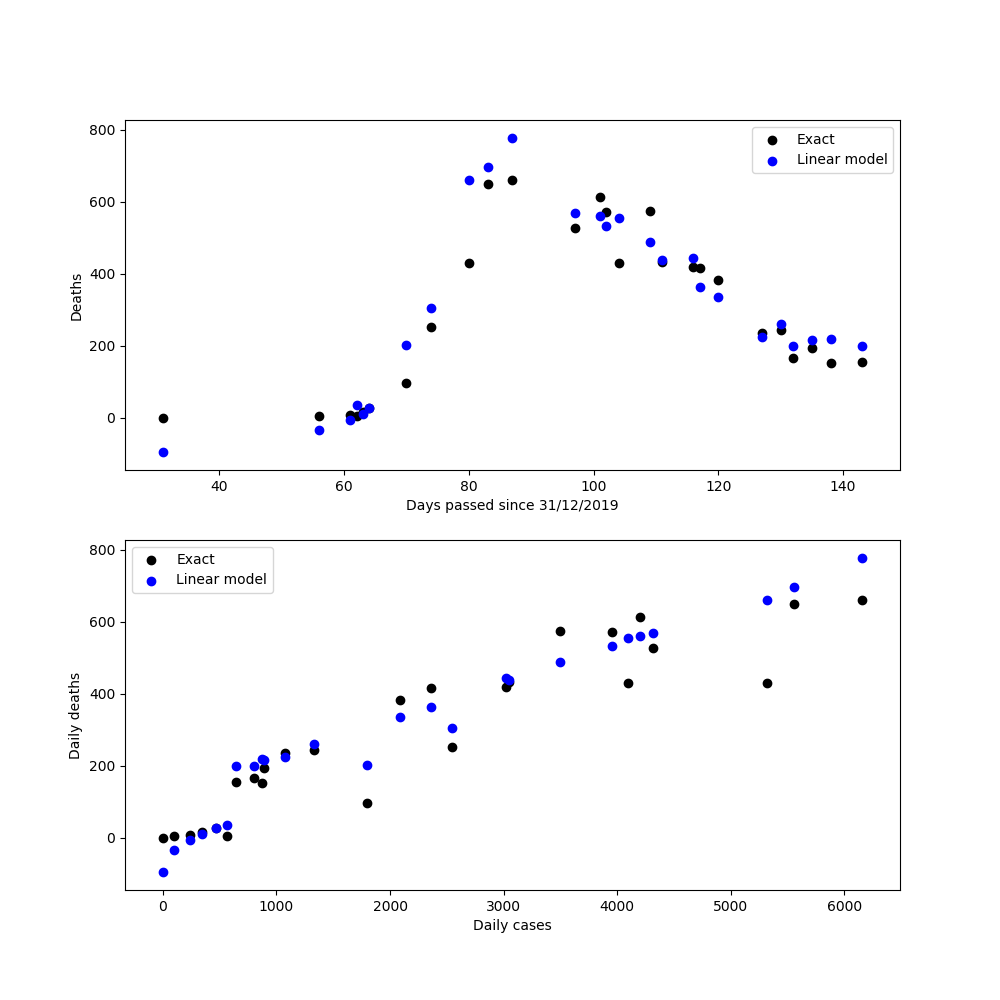
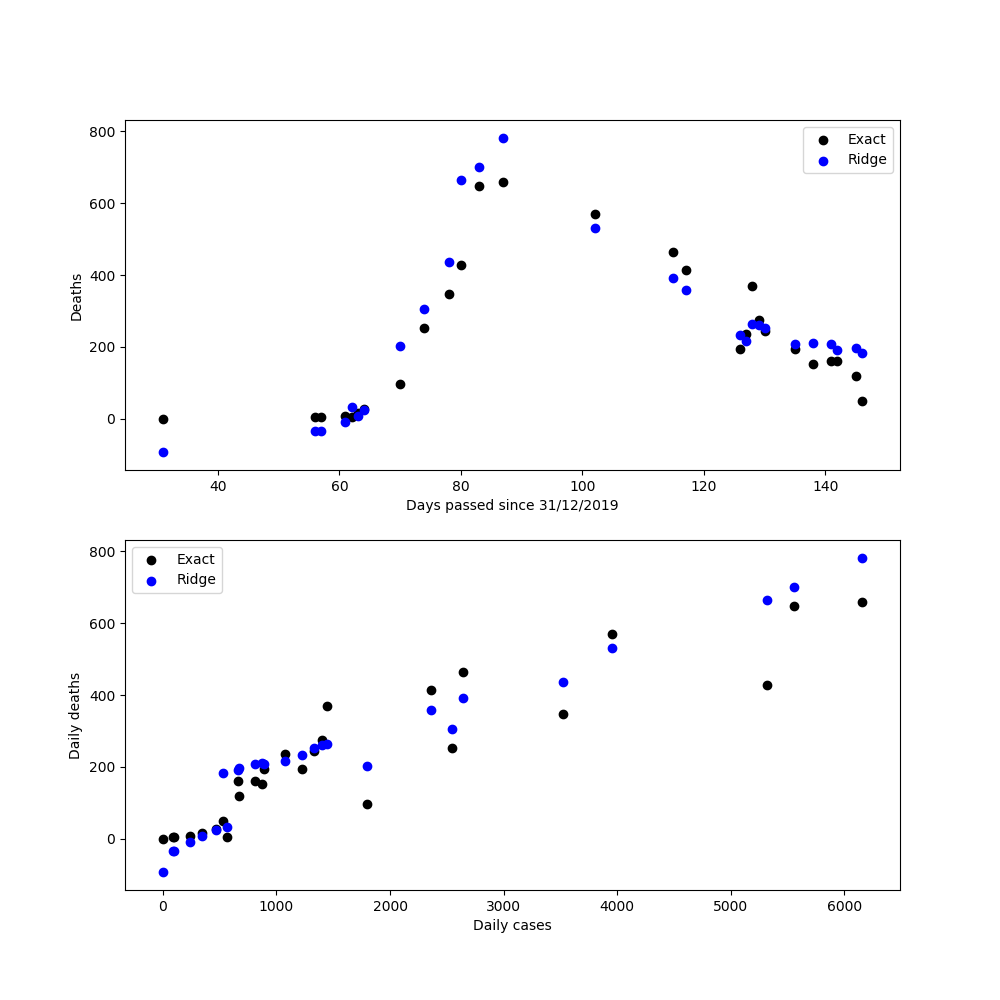
added Ridge regression to linear + Closs validation

diff --git a/models/linear.py b/models/linear.py
@@ -5,6 +5,7 @@ from sklearn import linear_model
 from sklearn.model_selection import train_test_split, cross_validate
 from sklearn.metrics import mean_squared_error, r2_score
 from sklearn.covariance import EllipticEnvelope
+from sklearn.neighbors import LocalOutlierFactor
 
 ######
 #model=['linear regression', 'Rigde regression']
@@ -18,6 +19,10 @@ def linear(data):
     y = np.array(data['deaths'])
 
 #Removing outliers
+
+#    clf = LocalOutlierFactor(n_neighbors=2, contamination = 0.1)
+#    x = x[clf.fit_predict(y.reshape(-1,1)) == 1]
+#    y = y[clf.fit_predict(y.reshape(-1,1)) == 1]
     cov = EllipticEnvelope(random_state=0).fit(y.reshape(-1,1))
     cov.predict(y.reshape(-1,1))
     x = x[cov.predict(y.reshape(-1,1)) == 1]
@@ -25,22 +30,40 @@ def linear(data):
 
     x_train, x_test, y_train, y_test = train_test_split(x, y, test_size=0.3, random_state=42)
 
-#check for more models
+#check for more methods
+    metric = pd.DataFrame(data = np.zeros([1,2]) ,columns = ['squares', 'Ridge'])
+    y_pred = pd.DataFrame(columns = ['squares', 'Ridge'])
 
-    lin_reg = linear_model.LinearRegression()
-    lin_reg.fit(x_train,y_train)
+#least squares
 
-    accuracy = cross_validate(lin_reg, x_train, y_train)['test_score'].mean()
+    least_squares = linear_model.LinearRegression()
+    least_squares.fit(x_train,y_train)
 
-    y_pred = lin_reg.predict(x_test)
+    y_pred.squares = least_squares.predict(x_test).reshape(-1)
+    metric.squares = r2_score(y_test, y_pred.squares)
+
+#Ridge regression
+
+    ridge = linear_model.RidgeCV(alphas = np.arange(1,11,1), cv = 5)
+    ridge.fit(x_train, y_train)
+    y_pred.Ridge = ridge.predict(x_test)
+    metric.Ridge = r2_score(y_test, y_pred.Ridge)
 
 #Output
-    print('The coefficients for [time cases] are : ', lin_reg.coef_)
-    print('The accuracy of the model is : ', accuracy)
-    mse = mean_squared_error(y_test, y_pred)
-    print('The MSE is : ',mse)
-    r2 = r2_score(y_test, y_pred)
-    print('The R squared is : ',r2 )
+    if metric.squares[0]>metric.Ridge[0]:
+        model = 'squares'
+        print('Linear regression with least squares : ')
+        print('The coefficients for [time cases] are : ', least_squares.coef_)
+        print('The accuracy of the model is : ', cross_validate(least_squares, x_train, y_train)['test_score'].mean())
+        print('The MSE is : ',mean_squared_error(y_test, y_pred.squares))
+        print('The R squared is : ',  metric.squares[0] )
+    else :
+        model = 'Ridge'
+        print('Ridge linear regression : ')
+        print('The coefficients for [time cases] are : ', ridge.coef_)
+        print('The value of the regularization parameter is : ', ridge.alpha_)
+        print('The MSE is : ',mean_squared_error(y_test, y_pred.Ridge))
+        print('The R squared is : ',  metric.Ridge[0] )
 
 #Plotting
 
@@ -49,12 +72,12 @@ def linear(data):
     fig, (ax1, ax2) = plt.subplots(2, figsize = (10,10))
 
     ax1.scatter(x_test[:,0], y_test,  color='black', label = 'Exact')
-    ax1.scatter(x_test[:,0], y_pred, color='blue', label = 'Linear model')
+    ax1.scatter(x_test[:,0], y_pred[model], color='blue', label = model)
     ax1.set(xlabel = 'Days passed since 31/12/2019', ylabel = 'Deaths')
     ax1.legend()
 
     ax2.scatter(x_test[:,1], y_test,  color='black', label = 'Exact')
-    ax2.scatter(x_test[:,1], y_pred, color='blue', label = 'Linear model')
+    ax2.scatter(x_test[:,1], y_pred[model], color='blue', label = model)
     ax2.set(xlabel = 'Daily cases', ylabel = 'Daily deaths')
     ax2.legend()
 

diff --git a/models/model_cases.py b/models/model_cases.py
@@ -62,7 +62,7 @@ def model_cases(data):
     tt_lin = TransformedTargetRegressor(regressor=LinearRegression(),func=np.log, inverse_func=np.exp)
     tt_lin.fit(x_train,y_train)
     accuracy['Linear'] = cross_validate(tt_lin, x_train, y_train)['test_score'].mean()
-    metric['Linear'] = tt_lin.score(x_train,y_train)
+    metric['Linear'] = tt_lin.score(x_test,y_test)
     y_pred['Linear'] = tt_lin.predict(x_test).reshape(-1)
 
 ######################################
@@ -76,7 +76,7 @@ def model_cases(data):
     tt_gauss.fit(x_train_gauss,y_train)
 #    accuracy['Gaussian'] = cross_validate(tt_gauss, x_train_gauss, y_train)['test_score'].mean()   Not working
     y_pred['Gaussian'] = tt_gauss.predict(x_test_gauss)
-    metric['Gaussian'] = tt_gauss.score(x_train_gauss,y_train)
+    metric['Gaussian'] = tt_gauss.score(x_test_gauss,y_test)
 
 ######################################
 # model 3 Logistic

diff --git a/other/linear.py b/other/linear.py
@@ -76,10 +76,12 @@ x_train, x_test, y_train, y_test = train_test_split(x, y, test_size=0.3, random_
 
 #Use Ridge regression
 
-ridge = linear_model.RidgeCV(alphas = np.arange(1,11,1), cv = 5).fit(x_train, y_train)
+ridge = linear_model.RidgeCV(alphas = np.arange(1,11,1), cv = 5)
+ridge.fit(x_train, y_train)
 ridge.coef_
 ridge.alpha_
 y_pred1 = ridge.predict(x_test)
+ridge.score(x_test, y_test)
 r2_score(y_test, y_pred1)
 
 lin_reg = linear_model.LinearRegression()
